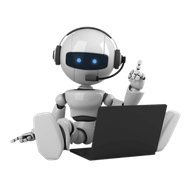
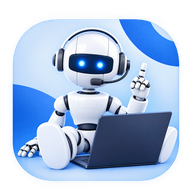
آیکن جدید نصب با طرح ربات سهبعدی ارسالی کاربر

diff --git a/public/index.html b/public/index.html
@@ -5,8 +5,8 @@
 <meta name="viewport" content="width=device-width, initial-scale=1.0, maximum-scale=1.0, minimum-scale=1.0, user-scalable=no, viewport-fit=cover">
 <meta name="theme-color" content="#f5f6f8">
 <link rel="icon" type="image/png" sizes="32x32" href="icon-32.png?v=2">
-<link rel="icon" type="image/png" sizes="192x192" href="icon-192.png?v=4">
-<link rel="apple-touch-icon" href="icon-192.png?v=4">
+<link rel="icon" type="image/png" sizes="192x192" href="icon-192.png?v=5">
+<link rel="apple-touch-icon" href="icon-192.png?v=5">
 <title>Mini Bot</title>
 <link rel="preconnect" href="https://fonts.googleapis.com">
 <link rel="preconnect" href="https://fonts.gstatic.com" crossorigin>
